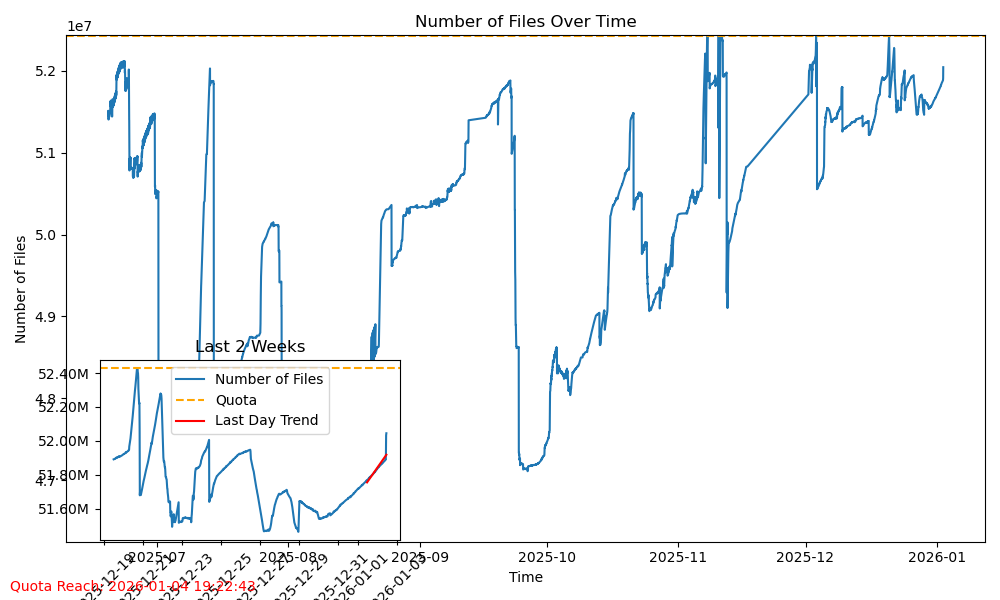
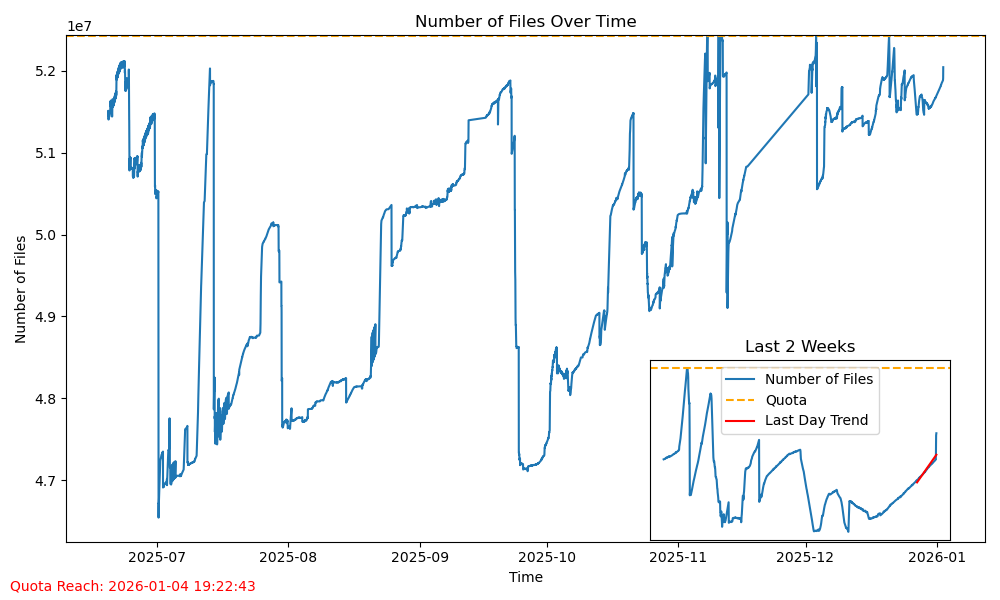
zoom in on last 2 weeks

diff --git a/file_number_monitoring/plot_file_usage.py b/file_number_monitoring/plot_file_usage.py
@@ -29,7 +29,17 @@ plt.axhline(y=data['quota'].iloc[-1], color='orange', linestyle='--', label='Quo
 plt.xlabel('Time')
 plt.ylabel('Number of Files')
 plt.title('Number of Files Over Time')
-plt.ylim(top=data['quota'].iloc[-1]* 1.0001)  # Set Y-axis limit to 0.0a1% above the quota
+plt.ylim(top=data['quota'].iloc[-1]* 1.0001)  # Set Y-axis limit to 0.01% above the quota
+
+#Add an inline subplot in the bottom left corner with a zoom in of the last 2 weeks
+ax_inset = plt.axes([0.65, 0.1, 0.3, 0.3])
+two_weeks_ago = data['datetime'].iloc[-1] - pd.Timedelta(weeks=2)
+inset_data = data[data['datetime'] >= two_weeks_ago]
+ax_inset.plot(inset_data['datetime'], inset_data['files'], label='Number of Files')
+ax_inset.axhline(y=inset_data['quota'].iloc[-1], color='orange', linestyle='--', label='Quota')
+ax_inset.set_title('Last 2 Weeks')
+ax_inset.set_xticks([])
+ax_inset.set_yticks([])
 
 # Format the Y-axis to show values in millions with 2 decimal places
 plt.gca().get_yaxis().set_major_formatter(plt.FuncFormatter(lambda x, _: f'{x / 1e6:.2f}M'))
